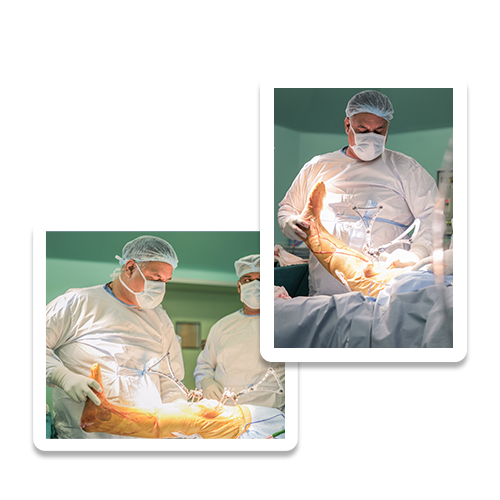
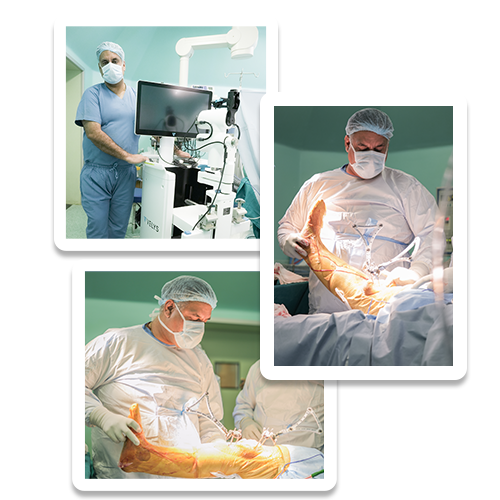
devoted section added

diff --git a/src/components/devoted/Devoted.jsx b/src/components/devoted/Devoted.jsx
@@ -1,0 +1,127 @@
+import React, { useState } from "react";
+import "./Devoted.css";
+import Image1 from "../../assets/images/about-image.webp";
+import Image2 from "../../assets/images/no1-cba.png";
+import Image3 from "../../assets/images/best-surgeon-images/surgeon2.png";
+import Image4 from "../../assets/images/education_ec.webp";
+import Image5 from "../../assets/images/best-surgeon-images/surgeon4.png";
+
+function Devoted() {
+  const [selectedDevoted, setSelectedDevoted] = useState(1);
+
+  const handleDevotedChange = (id) => {
+    setSelectedDevoted(id);
+  };
+
+  const devotedData = [
+    {
+      id: 1,
+      title: "A Globally Acclaimed Educator",
+      content:
+        "Dr. Apurv Mehra is recognized both nationally and internationally as a leading faculty in orthopaedics. Known for his clarity, energy, and student-first approach, he has taught and mentored thousands of medical aspirants across India and beyond. His sessions go beyond theory — helping students believe in themselves, push their limits, and dream bigger.",
+      image: Image1,
+    },
+    {
+      id: 2,
+      title: "Teaching with Heart & Humour",
+      content:
+        "What truly sets Dr. Mehra apart is his <b>unique style of teaching</b> — a powerful mix of knowledge, humor, and heart. His legendary Ortho Dhoom Dhadaka lectures have become a rite of passage for PG aspirants, widely recommended by toppers year after year. He doesn’t just teach medicine — he inspires a mindset, a discipline, and a sense of purpose.",
+      image: Image2,
+    },
+    {
+      id: 3,
+      title: "Author of Trusted Bestsellers",
+      content:
+        "A gifted communicator on and off the stage, Dr. Mehra is also the author of several <b>international bestsellers</b>, including Orthopedics Quick Review, NEET PG: The Next Level, and AIIMS: The Precise Version. These books are valued by students across South-East Asia for their clarity, precision, and exam relevance.",
+      image: Image3,
+    },
+    {
+      id: 4,
+      title: "Founder of Transformative Platforms",
+      content:
+        "As a visionary entrepreneur, Dr. Mehra co - founded <b>Cerebellum Academy</b> and <b>eConceptual</b> — two platforms that have redefined how medical students learn in the digital age. These initiatives provide <b>cutting-edge content, real-world mentorship</b>, and a deeply <b>motivational learning environment</b>, bridging the gap between theory and clinical practice.",
+      image: Image4,
+    },
+    {
+      id: 5,
+      title: "More Than a Mentor — A Movement",
+      content:
+        "For many students, Dr. Apurv Mehra is more than just a teacher — he’s a <b>mentor, a role model, and a spark that ignites change</b>. His ability to connect, uplift, and guide with sincerity has created a lasting impact that reaches far beyond classrooms and textbooks. His mission is simple yet profound: <b>to give back, through education, all that he has received.</b>",
+      image: Image5,
+    },
+  ];
+
+  return (
+    <div id="devoted" className="devoted-main-container">
+      <h1>A Life Devoted to Learning & Leading</h1>
+      <h2>Learning as a mission. Leading as a legacy</h2>
+
+      <div className="devoted-inner-container">
+        {/* Devoted Titles + Content */}
+        <div className="devoted-list-container">
+          {devotedData.map((data) => (
+            <div
+              key={data.id}
+              className={`devoted-item ${
+                selectedDevoted === data.id
+                  ? "active-devoted-item"
+                  : "border-gray-300"
+              }`}
+              onClick={() => handleDevotedChange(data.id)}
+            >
+              <div className="devoted-header">
+                <h4
+                  className={`devoted-title ${
+                    selectedDevoted === data.id ? "text-purple" : "text-black"
+                  }`}
+                >
+                  {data.title}
+                </h4>
+              </div>
+
+              {selectedDevoted === data.id && (
+                <div
+                  className="active-devoted-content"
+                  dangerouslySetInnerHTML={{ __html: data.content }}
+                ></div>
+              )}
+            </div>
+          ))}
+        </div>
+
+        {/* Devoted Image */}
+        <div className="devoted-image-container">
+          <div className="devoted-image-wrapper">
+            <div className="devoted-image-inner">
+              {devotedData.map((data) => (
+                <img
+                  key={data.id}
+                  src={data.image}
+                  alt={`devoted ${data.id}`}
+                  className={`devoted-image ${
+                    selectedDevoted === data.id ? "opacity-100" : "opacity-0"
+                  }`}
+                />
+              ))}
+            </div>
+
+            {/* Devoted Indicators */}
+            <div className="devoted-indicators">
+              {devotedData.map((data) => (
+                <span
+                  key={data.id}
+                  className={`devoted-indicator ${
+                    selectedDevoted === data.id ? "bg-blue-500" : "bg-white-700"
+                  }`}
+                  onClick={() => handleDevotedChange(data.id)}
+                ></span>
+              ))}
+            </div>
+          </div>
+        </div>
+      </div>
+    </div>
+  );
+}
+
+export default Devoted;

diff --git a/src/components/devoted/Devoted.css b/src/components/devoted/Devoted.css
@@ -1,0 +1,192 @@
+.devoted-main-container {
+  width: 100%;
+  padding: 4rem 0;
+  background-color: #ffffff;
+}
+
+.devoted-main-container h1 {
+  font-size: 2rem;
+  color: #333333;
+  text-transform: uppercase;
+  text-align: center;
+}
+
+.devoted-main-container h2 {
+  font-size: 1.5rem;
+  color: #333333;
+  font-weight: 100;
+  text-align: center;
+  padding: 1rem 1rem 2rem 1rem;
+}
+
+.devoted-inner-container {
+  width: 80%;
+  display: flex;
+  justify-content: space-between;
+  margin: 1rem auto;
+}
+
+.devoted-list-container {
+  width: 48%;
+  margin: auto 0;
+}
+
+.devoted-item {
+  width: 100%;
+  border-radius: 12px;
+  border: 1px solid #d9d9d9;
+  margin-top: 1rem;
+  padding: 1rem 1.25rem;
+  cursor: pointer;
+}
+
+.active-devoted-item {
+  border: 1px solid #5a40c4;
+}
+
+.border-gray-300 {
+  border-color: #d1d5db;
+}
+
+.text-purple {
+  color: #5a40c4;
+}
+
+.text-black {
+  color: black;
+}
+
+.devoted-title {
+  font-size: 1.5rem;
+  font-weight: 500;
+}
+
+.active-devoted-content {
+  font-size: 20px;
+  padding-top: 1rem;
+  color: #333333;
+}
+
+.devoted-image-container {
+  width: 48%;
+}
+
+.devoted-image-wrapper {
+  width: 100%;
+  height: 100%;
+  position: relative;
+}
+
+.devoted-image-inner {
+  overflow: hidden;
+  height: 100%;
+}
+
+.devoted-image {
+  width: 100%;
+  height: 100%;
+  border-radius: 12px;
+  object-fit: cover;
+}
+
+.opacity-100 {
+  opacity: 1;
+}
+
+.opacity-0 {
+  opacity: 0;
+  display: none;
+}
+
+.devoted-indicators {
+  display: flex;
+  justify-content: center;
+  padding: 1rem;
+  position: absolute;
+  bottom: 0;
+  left: 0;
+  right: 0;
+  position: relative;
+  padding: 0.5rem;
+}
+
+.devoted-indicator {
+  display: inline-block;
+  width: 0.75rem;
+  height: 0.75rem;
+  background-color: #d1d5db;
+  border-radius: 9999px;
+  margin-left: 0.5rem;
+  margin-right: 0.5rem;
+  cursor: pointer;
+}
+
+.bg-blue-500 {
+  cursor: pointer;
+  background-color: #002864;
+  border: 1px solid #fff;
+  transition: background-color 0.6s ease;
+}
+
+.bg-white-700 {
+  cursor: pointer;
+  background-color: #ebebeb;
+  border-radius: 50%;
+  border: 1px solid #002864;
+  display: inline-block;
+  transition: background-color 0.6s ease;
+}
+
+/* ---------------------- Responsive styles ------------------------- */
+
+@media (max-width: 1440px) {
+  .devoted-inner-container {
+    width: 90%;
+  }
+}
+
+@media (max-width: 768px) {
+  .devoted-inner-container {
+    flex-direction: column-reverse;
+  }
+
+  .devoted-image-container {
+    width: 80%;
+    margin: 0 auto;
+  }
+
+  .devoted-image-inner {
+    height: auto;
+  }
+
+  .devoted-list-container {
+    width: 100%;
+  }
+
+  .devoted-main-container h1 {
+    font-size: 1.5rem;
+  }
+
+  .devoted-main-container h2 {
+    font-size: 22px;
+    padding: 1rem;
+  }
+}
+
+@media (max-width: 568px) {
+  .devoted-main-container {
+    padding: 2.5rem 0;
+  }
+
+  .devoted-image-container {
+    width: 100%;
+  }
+
+  .devoted-title {
+    font-size: 1.25rem;
+  }
+
+  .active-devoted-content {
+    font-size: 18px;
+  }
+}

diff --git a/src/App.jsx b/src/App.jsx
@@ -8,6 +8,7 @@ import Surgeon from "./components/surgeon/Surgeon";
 import VidyaJeevanClinic from "./components/vidyaJeevan/VidyaJeevanClinic";
 import Specialities from "./components/specialities/Specialities";
 import PatientsTestimonial from "./components/patientsTestimonial/PatientsTestimonial";
+import Devoted from "./components/devoted/Devoted";
 import Education from "./components/medicalEducation/Education";
 import EducationKnowMore from "./components/medicalEducation/EducationKnowMore";
 import Motivational from "./components/motivational/Motivational";
@@ -45,6 +46,10 @@ function App() {
 
       <section id="patients-testimonial">
         <PatientsTestimonial />
+      </section>
+
+      <section id="devoted">
+        <Devoted />
       </section>
 
       <section id="ec-cba">

diff --git a/src/components/vidyaJeevan/VidyaJeevanClinic.jsx b/src/components/vidyaJeevan/VidyaJeevanClinic.jsx
@@ -5,7 +5,7 @@ import "aos/dist/aos.css";
 import "swiper/css";
 import "swiper/css/navigation";
 import "swiper/css/effect-coverflow";
-import VJC from "../../assets/images/vidya-jeevan-center-images/vjc-image.webp";
+import VJC from "../../assets/images/vidya-jeevan-center-images/vjc-image.png";
 
 function VidyaJeevanClinic() {
   useEffect(() => {
